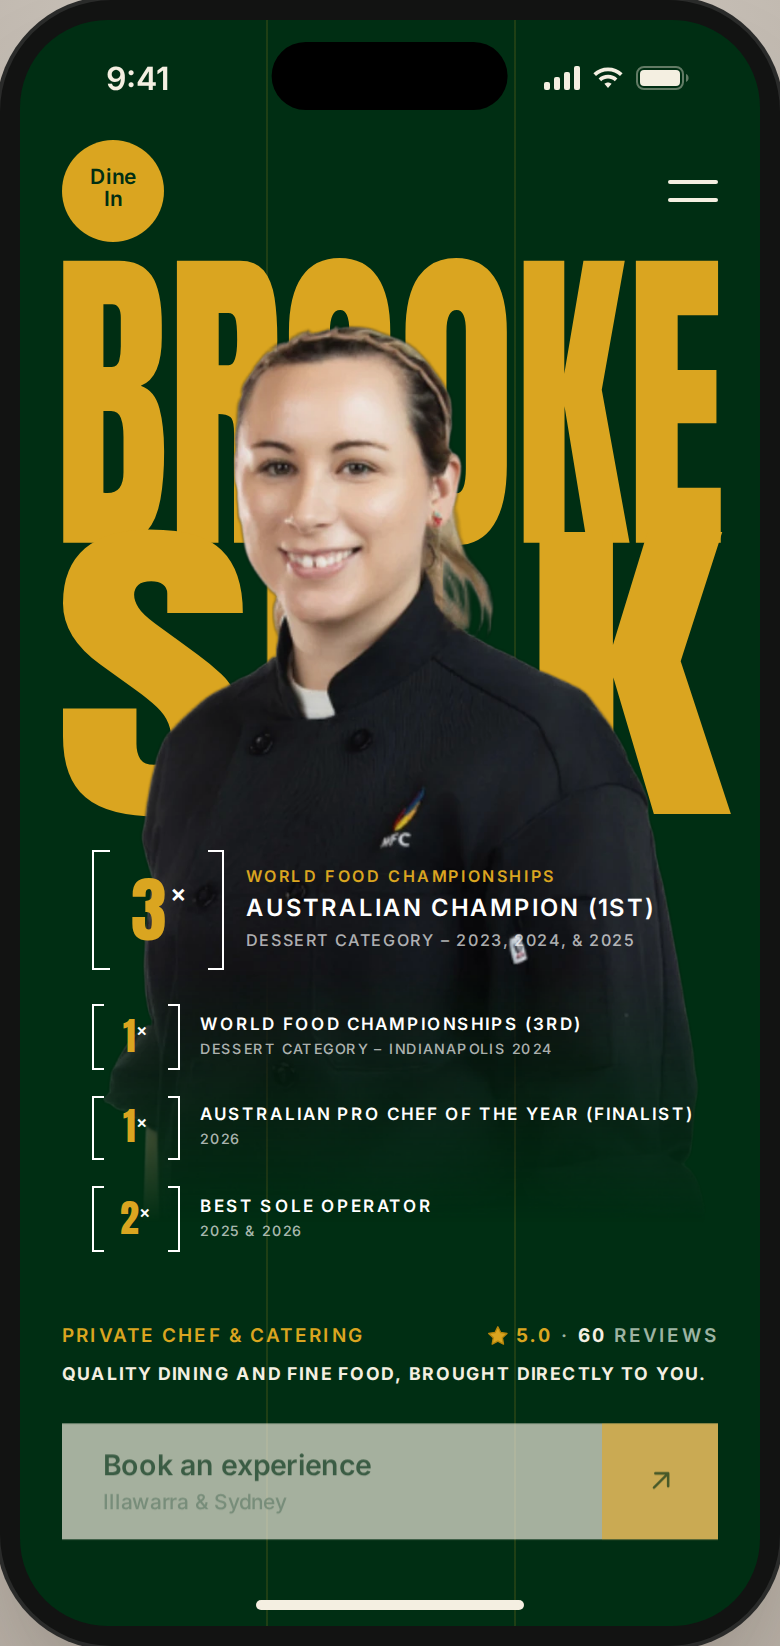
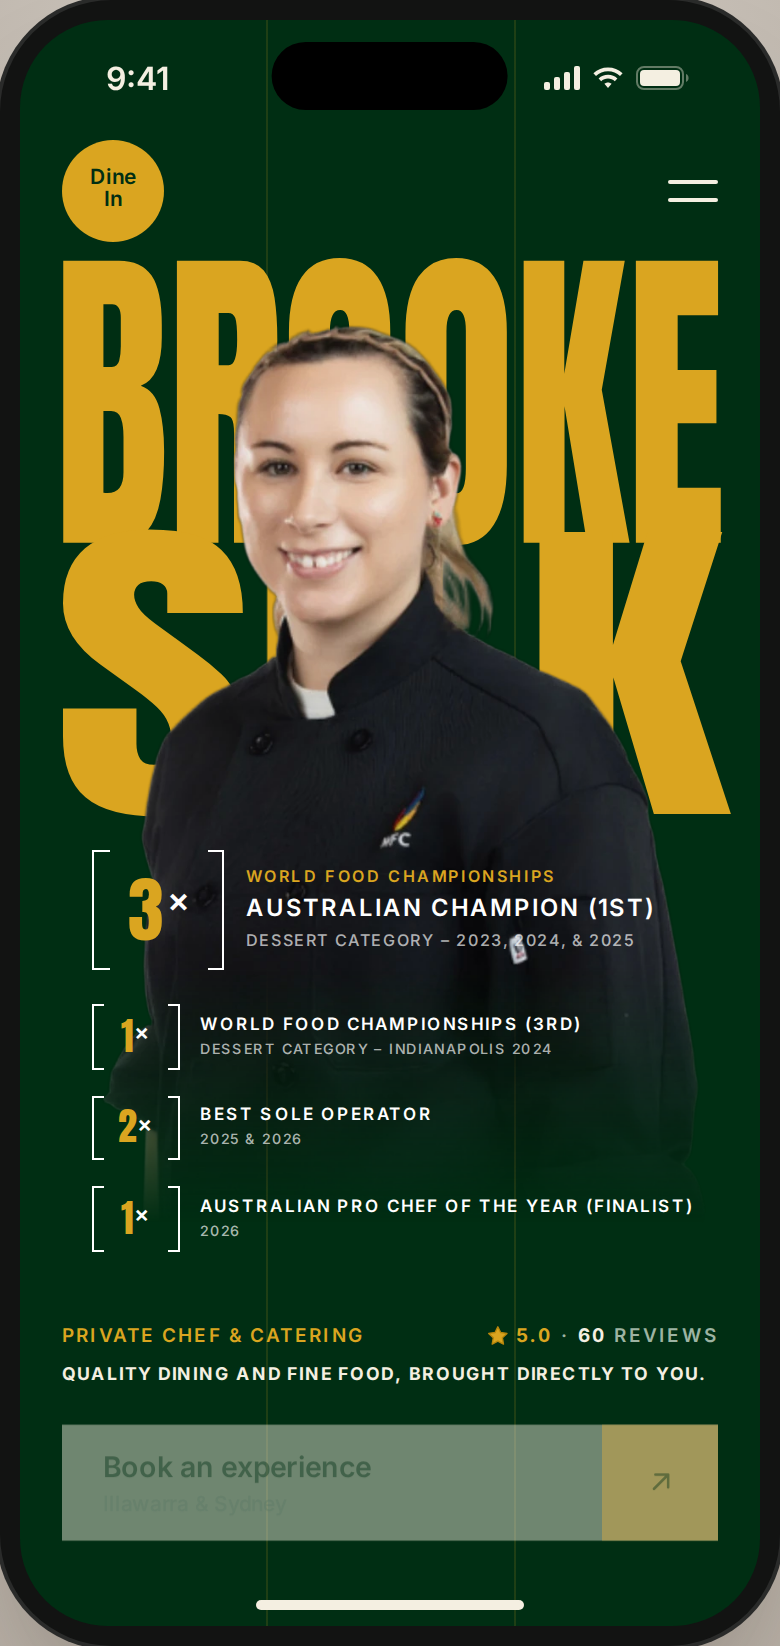
Chef card: bigger ×, Best Sole Operator before Pro Chef of the Year
The × beside each count is about a third larger (12 design units, 18 on
the lead). Best Sole Operator (2×) now comes before Australian Pro Chef
of the Year (1×) in the list and in the intro.

Claude-Session: https://claude.ai/code/session_01Dn2sZdZCxPbGjUxXXUAMP8

diff --git a/components/chef-card/index.html b/components/chef-card/index.html
@@ -142,12 +142,12 @@
             <span class="ui-chef__stat-label"><span>World Food Championships (3rd)</span><span class="ui-chef__stat-sub">Dessert category – Indianapolis 2024</span></span>
           </li>
           <li class="ui-chef__stat" data-ui-chef-join>
-            <span class="ui-chef__stat-num"><span data-ui-chef-count>1</span><sup>×</sup></span>
-            <span class="ui-chef__stat-label"><span>Australian Pro Chef of the Year (Finalist)</span><span class="ui-chef__stat-sub">2026</span></span>
-          </li>
-          <li class="ui-chef__stat" data-ui-chef-join>
             <span class="ui-chef__stat-num"><span data-ui-chef-count>2</span><sup>×</sup></span>
             <span class="ui-chef__stat-label"><span>Best Sole Operator</span><span class="ui-chef__stat-sub">2025 &amp; 2026</span></span>
+          </li>
+          <li class="ui-chef__stat" data-ui-chef-join>
+            <span class="ui-chef__stat-num"><span data-ui-chef-count>1</span><sup>×</sup></span>
+            <span class="ui-chef__stat-label"><span>Australian Pro Chef of the Year (Finalist)</span><span class="ui-chef__stat-sub">2026</span></span>
           </li>
         </ul>
 

diff --git a/components/chef-card/style.css b/components/chef-card/style.css
@@ -202,7 +202,7 @@
   --num-w: 46;
   --num-h: 34;
   --num-size: 20;
-  --sup-size: 9;
+  --sup-size: 12;
   --arm: 5;
   --title-size: 9;
   --sub-size: 7.5;
@@ -215,7 +215,7 @@
   --num-w: 70;
   --num-h: 64;
   --num-size: 38;
-  --sup-size: 13;
+  --sup-size: 18;
   --arm: 8;
   --title-size: 12.5;
   --sub-size: 8.5;

diff --git a/components/chef-card/README.md b/components/chef-card/README.md
@@ -11,8 +11,8 @@ The Dine In edition of the [profile card](../profile-card/), for private chef Br
   - Awards: four bracketed stats stacked in white on the jacket, each with a title and a smaller detail line:
     - **Lead award**, larger and on three lines: `[3×]` World Food Championships (a small gold line), Australian Champion (1st), dessert category – 2023, 2024, & 2025
     - `[1×]` World Food Championships (3rd): dessert category – Indianapolis 2024
-    - `[1×]` Australian Pro Chef of the Year (Finalist): 2026
     - `[2×]` Best Sole Operator: 2025 & 2026
+    - `[1×]` Australian Pro Chef of the Year (Finalist): 2026
 
     The bracket shows how many times, and the placing sits in brackets after the title. The lead award has a bigger bracket and title, so it stands out from the three smaller ones below it.
   - Meta row: "Private chef & catering" in gold on the left, and her Google rating (★ 5.0 · 60 reviews) on the right.
@@ -25,7 +25,7 @@ The Dine In edition of the [profile card](../profile-card/), for private chef Br
   2. As the last letter lands, the portrait opens out from the centre of the face.
   3. The information then loads one row at a time:
      - the lead award on its own: it drops in slightly larger and settles with a small bounce, showing 0×. After a beat it ticks up 1, 2, 3 at an even pace
-     - after a short hold, the other three awards, 0.1s apart. Each comes in at 0, holds for a beat and ticks up to 1×, 1× and 2×
+     - after a short hold, the other three awards, 0.1s apart. Each comes in at 0, holds for a beat and ticks up to 1×, 2× and 1×
      - after a short pause, the meta row: ★ 0.0 → 5.0 and 0 → 60 reviews. When the rating reaches 5.0, gold sparkles fly into the star, and it jumps, turns gold and stays gold. At the same moment the score turns gold, and the whole rating pops with a brief gold glow to call out the perfect score. Nothing else moves while this happens.
      - once the rating's pop has finished, and after a short pause, the tagline
      - after another short pause, the button
@@ -90,12 +90,12 @@ Plain HTML, CSS and vanilla JS, no dependencies. Classes are prefixed `ui-chef`,
         <span class="ui-chef__stat-label"><span>World Food Championships (3rd)</span><span class="ui-chef__stat-sub">Dessert category – Indianapolis 2024</span></span>
       </li>
       <li class="ui-chef__stat" data-ui-chef-join>
-        <span class="ui-chef__stat-num"><span data-ui-chef-count>1</span><sup>×</sup></span>
-        <span class="ui-chef__stat-label"><span>Australian Pro Chef of the Year (Finalist)</span><span class="ui-chef__stat-sub">2026</span></span>
-      </li>
-      <li class="ui-chef__stat" data-ui-chef-join>
         <span class="ui-chef__stat-num"><span data-ui-chef-count>2</span><sup>×</sup></span>
         <span class="ui-chef__stat-label"><span>Best Sole Operator</span><span class="ui-chef__stat-sub">2025 &amp; 2026</span></span>
+      </li>
+      <li class="ui-chef__stat" data-ui-chef-join>
+        <span class="ui-chef__stat-num"><span data-ui-chef-count>1</span><sup>×</sup></span>
+        <span class="ui-chef__stat-label"><span>Australian Pro Chef of the Year (Finalist)</span><span class="ui-chef__stat-sub">2026</span></span>
       </li>
     </ul>
 
